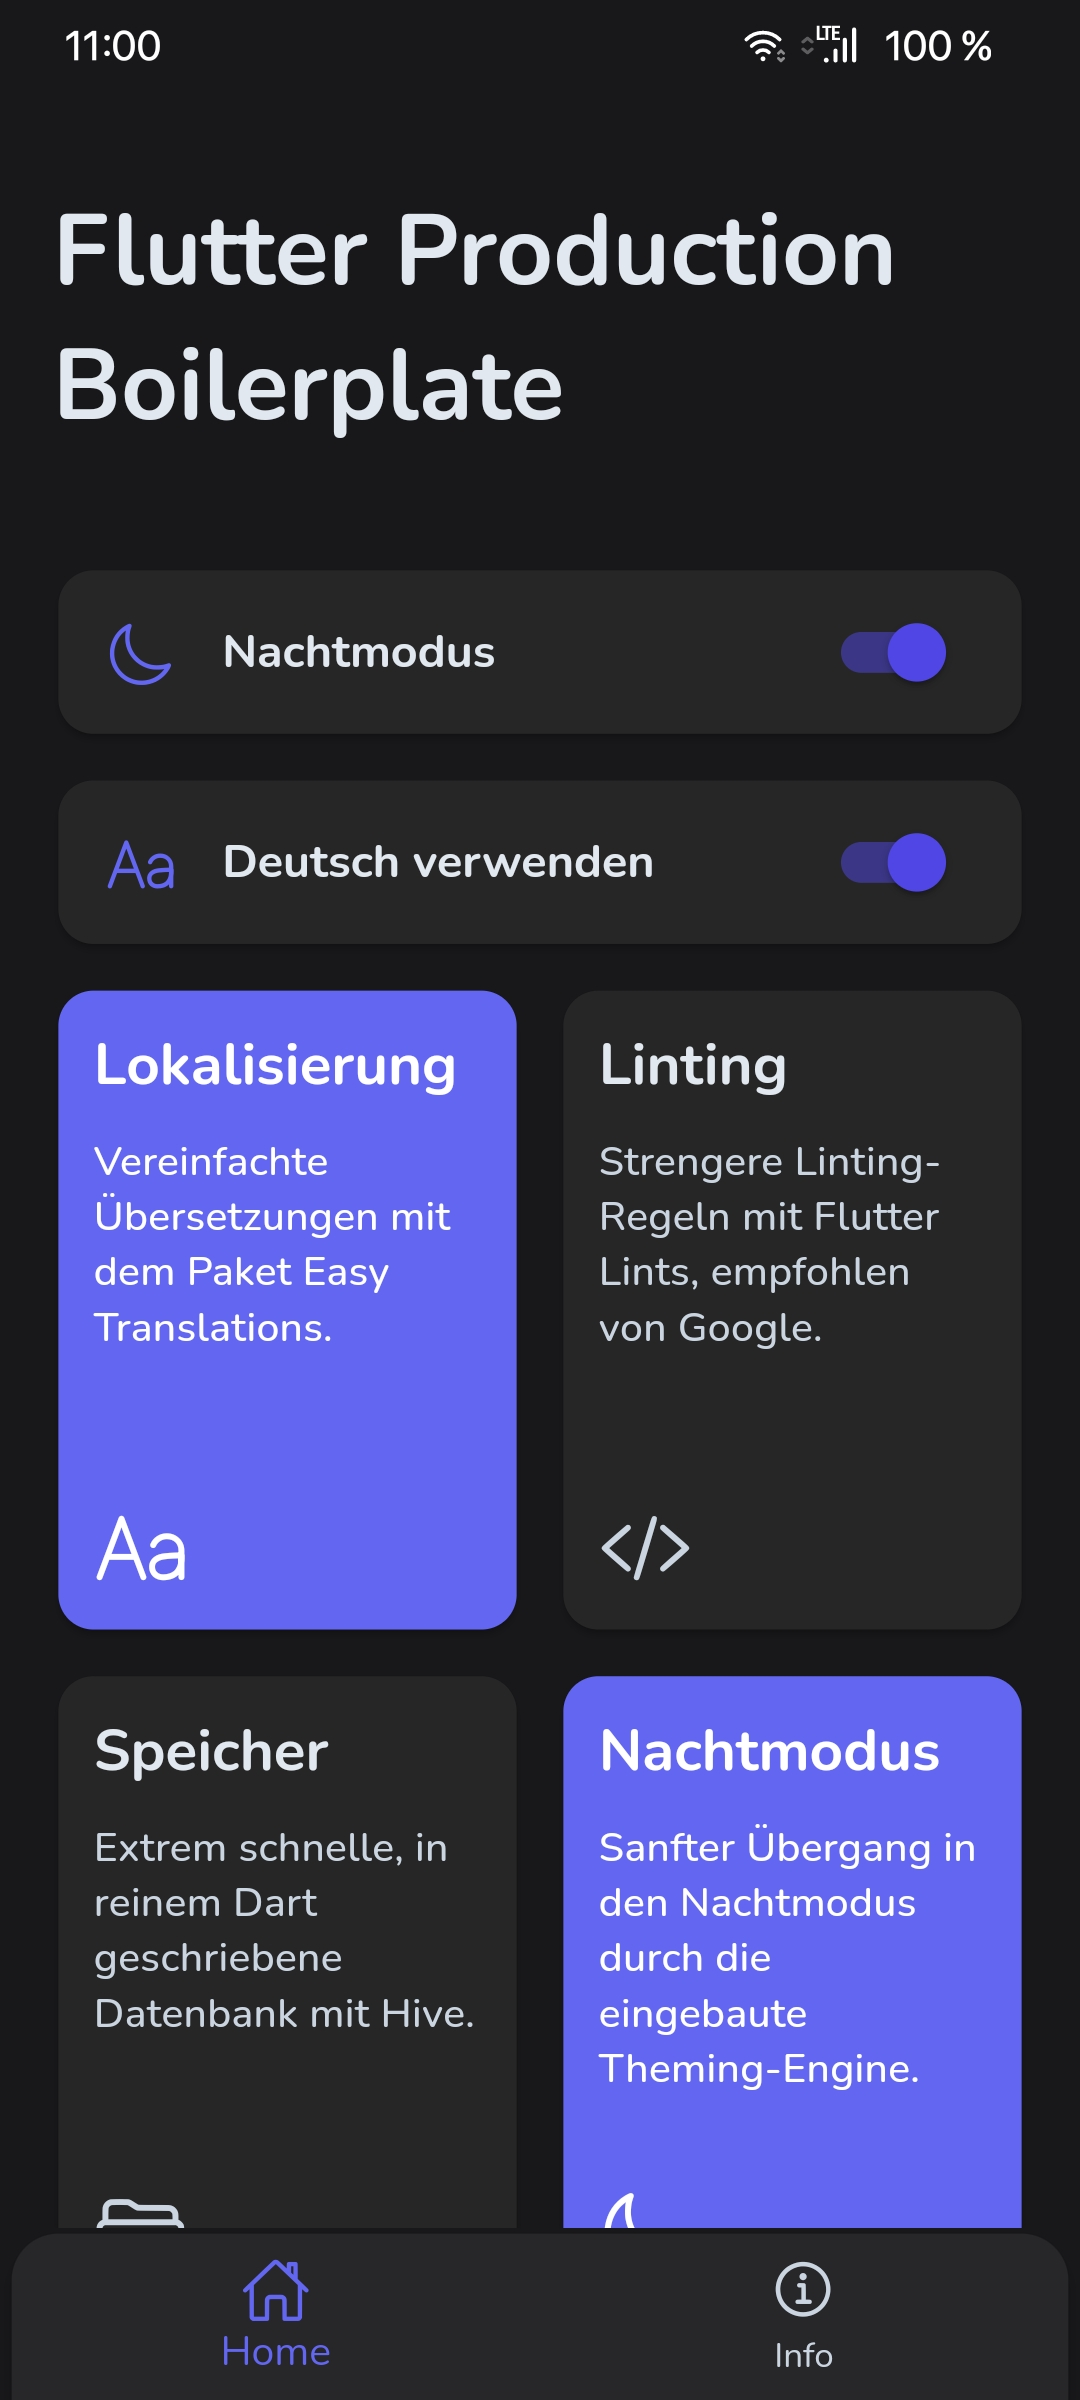
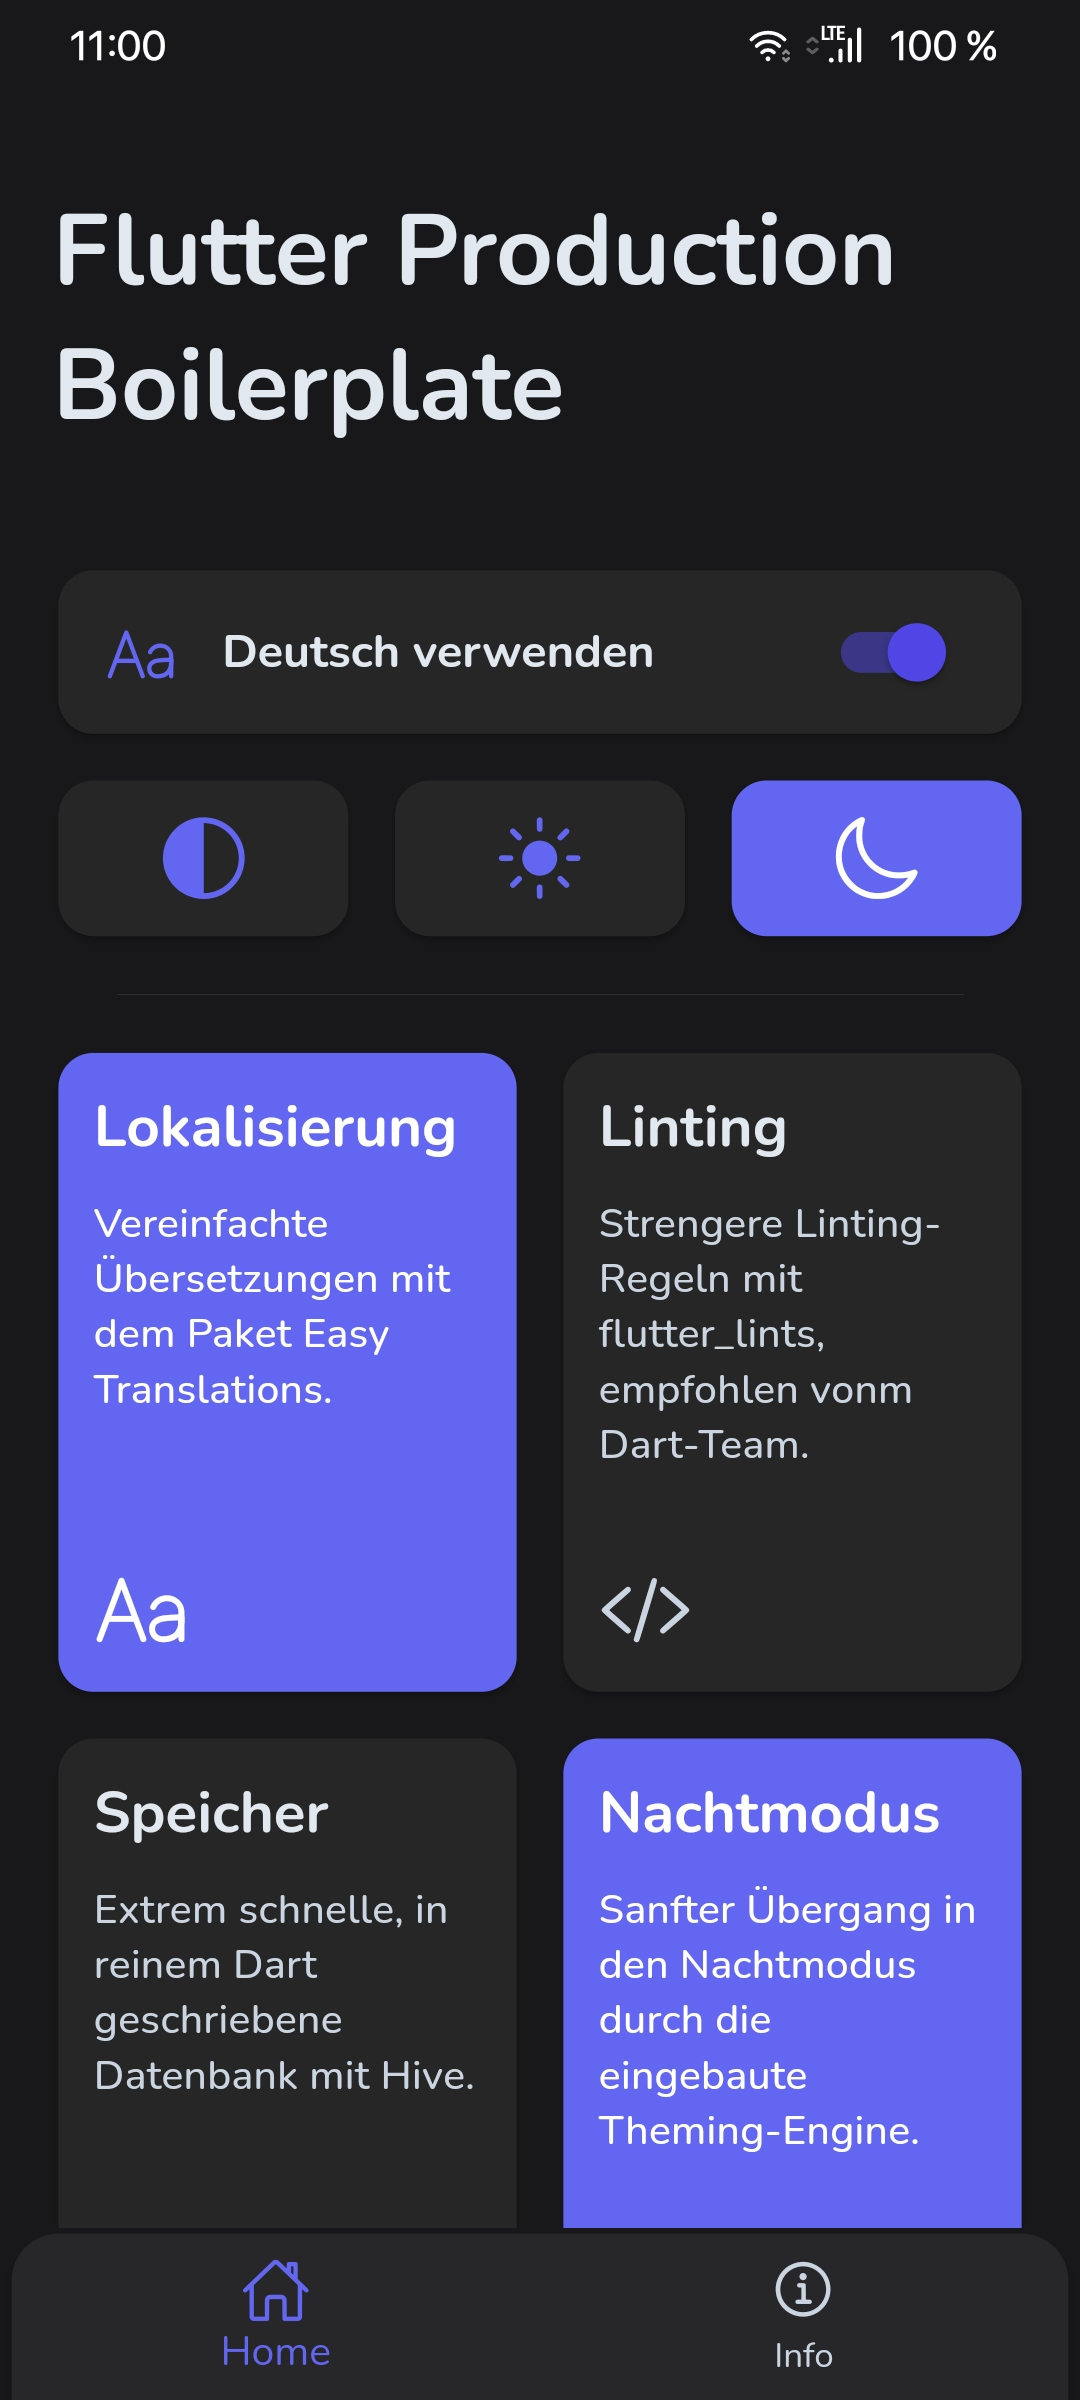
Extend theming options to support system theme

diff --git a/lib/ui/screens/first_screen.dart b/lib/ui/screens/first_screen.dart
@@ -3,8 +3,8 @@ import 'package:flutter/material.dart';
 import 'package:flutter_riverpod/flutter_riverpod.dart';
 import 'package:ionicons/ionicons.dart';
 
-import '../../states/theme_provider.dart';
 import '../widgets/first_screen/info_card.dart';
+import '../widgets/first_screen/theme_card.dart';
 import '../widgets/header.dart';
 
 class FirstScreen extends ConsumerWidget {
@@ -19,48 +19,7 @@ class FirstScreen extends ConsumerWidget {
           physics: const BouncingScrollPhysics(),
           children: <Widget>[
             const Header(text: 'app_name'),
-            Card(
-              elevation: 2,
-              color: Theme.of(context).cardColor,
 
-              /// Example: Getting border radius circular as const
-              /// Nested Widgets do not need to be declared as const.
-              shape: const RoundedRectangleBorder(
-                  borderRadius: BorderRadius.all(Radius.circular(12))),
-              child: SwitchListTile(
-                onChanged: (bool newValue) {
-                  /// Example: Change theme with Riverpod
-                  if (newValue) {
-                    ref.watch(themeProvider).enableDarkMode();
-                  } else {
-                    ref.watch(themeProvider).enableLightMode();
-                  }
-                },
-                shape: const RoundedRectangleBorder(
-                    borderRadius: BorderRadius.all(Radius.circular(12))),
-                value: Theme.of(context).brightness == Brightness.dark,
-                title: Row(
-                  children: <Widget>[
-                    /// Examle: Ionicons
-                    /// Available icons -> https://ionic.io/ionicons
-                    Icon(Ionicons.moon_outline,
-                        color: Theme.of(context).primaryColor),
-                    const SizedBox(width: 16),
-                    Text(
-                      /// Example: Use the easy_translations package
-                      tr('dark_mode_title'),
-                      style: Theme.of(context)
-                          .textTheme
-                          .subtitle1!
-                          .apply(fontWeightDelta: 2),
-                    ),
-                  ],
-                ),
-              ),
-            ),
-
-            /// Example: Good way to add space between items without using Paddings
-            const SizedBox(height: 8),
             Card(
               elevation: 2,
 
@@ -96,7 +55,39 @@ class FirstScreen extends ConsumerWidget {
                 ),
               ),
             ),
+
             const SizedBox(height: 8),
+
+            GridView.count(
+                physics: const NeverScrollableScrollPhysics(),
+                shrinkWrap: true,
+                crossAxisCount: 3,
+                crossAxisSpacing: 8,
+                mainAxisSpacing: 8,
+                childAspectRatio: 1.75 / 1,
+                children: const <ThemeCard>[
+                  ThemeCard(
+                    mode: ThemeMode.system,
+                    icon: Ionicons.contrast_outline,
+                  ),
+                  ThemeCard(
+                    mode: ThemeMode.light,
+                    icon: Ionicons.sunny_outline,
+                  ),
+                  ThemeCard(
+                    mode: ThemeMode.dark,
+                    icon: Ionicons.moon_outline,
+                  ),
+                ]),
+
+            /// Example: Good way to add space between items without using Paddings
+            const SizedBox(height: 8),
+            const Padding(
+              padding: EdgeInsets.symmetric(horizontal: 24),
+              child: Divider(),
+            ),
+            const SizedBox(height: 8),
+
             GridView.count(
               physics: const NeverScrollableScrollPhysics(),
               shrinkWrap: true,

diff --git a/lib/ui/widgets/first_screen/theme_card.dart b/lib/ui/widgets/first_screen/theme_card.dart
@@ -1,0 +1,41 @@
+import 'package:flutter/material.dart';
+import 'package:flutter_riverpod/flutter_riverpod.dart';
+
+import '../../../states/theme_mode_state.dart';
+import '../../../states/theme_provider.dart';
+
+class ThemeCard extends ConsumerWidget {
+  const ThemeCard({
+    super.key,
+    required this.mode,
+    required this.icon,
+  });
+
+  final IconData icon;
+  final ThemeMode mode;
+
+  @override
+  Widget build(BuildContext context, WidgetRef ref) {
+    final ThemeModeState state = ref.watch(themeProvider);
+
+    return Card(
+      elevation: 2,
+      color: state.themeMode == mode
+          ? Theme.of(context).primaryColor
+          : Theme.of(context).cardColor,
+      shape: const RoundedRectangleBorder(
+          borderRadius: BorderRadius.all(Radius.circular(12))),
+      child: InkWell(
+        onTap: () => ref.watch(themeProvider.notifier).setThemeMode(mode),
+        borderRadius: const BorderRadius.all(Radius.circular(12)),
+        child: Icon(
+          icon,
+          size: 32,
+          color: state.themeMode != mode
+              ? Theme.of(context).primaryColor
+              : Colors.white,
+        ),
+      ),
+    );
+  }
+}

diff --git a/lib/main.dart b/lib/main.dart
@@ -8,8 +8,8 @@ import 'package:hive_flutter/adapters.dart';
 import 'package:path_provider/path_provider.dart';
 
 import 'config/theme.dart';
+import 'states/theme_mode_state.dart';
 import 'states/theme_provider.dart';
-import 'states/theme_state.dart';
 import 'ui/screens/skeleton_screen.dart';
 
 /// Try using const constructors as much as possible!
@@ -46,7 +46,7 @@ class MyApp extends ConsumerWidget {
 
   @override
   Widget build(BuildContext context, WidgetRef ref) {
-    final ChangeThemeState currentTheme = ref.watch(themeProvider);
+    final ThemeModeState currentTheme = ref.watch(themeProvider);
 
     return MaterialApp(
       /// Localization is not available for the title.
@@ -55,7 +55,7 @@ class MyApp extends ConsumerWidget {
       /// Theme stuff
       theme: lightTheme,
       darkTheme: darkTheme,
-      themeMode: currentTheme.darkMode ? ThemeMode.dark : ThemeMode.light,
+      themeMode: currentTheme.themeMode,
 
       /// Localization stuff
       localizationsDelegates: context.localizationDelegates,

diff --git a/lib/states/theme_mode_state.dart b/lib/states/theme_mode_state.dart
@@ -1,0 +1,28 @@
+import 'package:flutter/material.dart';
+import 'package:hive/hive.dart';
+
+class ThemeModeState extends ChangeNotifier {
+  ThemeModeState() {
+    final String mode = Hive.box('prefs')
+        .get('themeMode', defaultValue: ThemeMode.system.toString()) as String;
+    switch (mode) {
+      case 'ThemeMode.dark':
+        themeMode = ThemeMode.dark;
+        break;
+      case 'ThemeMode.light':
+        themeMode = ThemeMode.light;
+        break;
+      case 'ThemeMode.system':
+        themeMode = ThemeMode.system;
+        break;
+    }
+  }
+
+  ThemeMode? themeMode;
+
+  void setThemeMode(ThemeMode mode) {
+    themeMode = mode;
+    Hive.box('prefs').put('themeMode', themeMode.toString());
+    notifyListeners();
+  }
+}

diff --git a/lib/config/theme.dart b/lib/config/theme.dart
@@ -112,14 +112,10 @@ final ThemeData lightTheme = ThemeData(
 
 final ThemeData darkTheme = lightTheme.copyWith(
   brightness: Brightness.dark,
-  scaffoldBackgroundColor: const Color(0xFF18181B),
-  // zinc-900
-  backgroundColor: const Color(0xFF18181B),
-  // zinc-900
-  cardColor: const Color(0xFF262626),
-  // neutral-800
-  bottomAppBarColor: const Color(0xFF27272A),
-  // zinc-800
+  scaffoldBackgroundColor: const Color(0xFF18181B),  // zinc-900
+  backgroundColor: const Color(0xFF18181B),  // zinc-900
+  cardColor: const Color(0xFF262626),  // neutral-800
+  bottomAppBarColor: const Color(0xFF27272A),  // zinc-800
   dividerColor: const Color(0x1CFFFFFF),
   textTheme: TextTheme(
     headline1: TextStyle(

diff --git a/lib/ui/widgets/header.dart b/lib/ui/widgets/header.dart
@@ -2,8 +2,8 @@ import 'package:easy_localization/easy_localization.dart';
 import 'package:flutter/material.dart';
 
 class Header extends StatelessWidget {
-
   const Header({super.key, required this.text});
+
   final String text;
 
   @override
@@ -13,8 +13,7 @@ class Header extends StatelessWidget {
       child: Text(
         tr(text),
         textAlign: TextAlign.start,
-        style:
-            Theme.of(context).textTheme.headline4!.apply(fontWeightDelta: 2),
+        style: Theme.of(context).textTheme.headline4!.apply(fontWeightDelta: 2),
       ),
     );
   }

diff --git a/lib/states/theme_provider.dart b/lib/states/theme_provider.dart
@@ -1,9 +1,9 @@
 import 'package:flutter_riverpod/flutter_riverpod.dart';
 
-import 'theme_state.dart';
+import 'theme_mode_state.dart';
 
-final AutoDisposeChangeNotifierProvider<ChangeThemeState> themeProvider =
+final AutoDisposeChangeNotifierProvider<ThemeModeState> themeProvider =
     ChangeNotifierProvider.autoDispose(
-        (AutoDisposeChangeNotifierProviderRef<ChangeThemeState> ref) {
-  return ChangeThemeState();
+        (AutoDisposeChangeNotifierProviderRef<ThemeModeState> ref) {
+  return ThemeModeState();
 });
